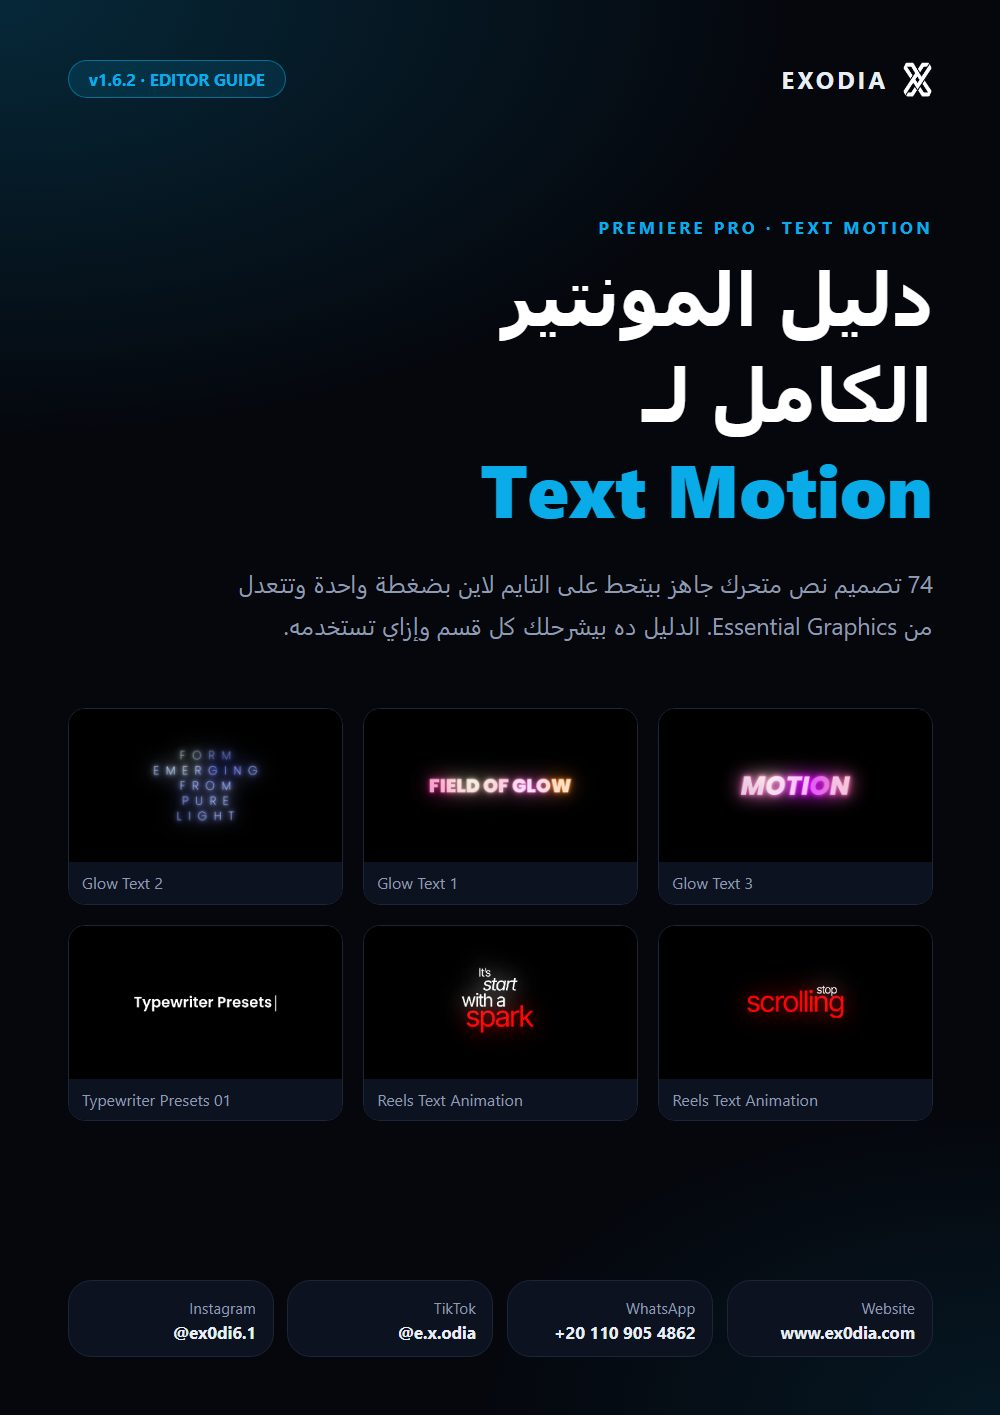
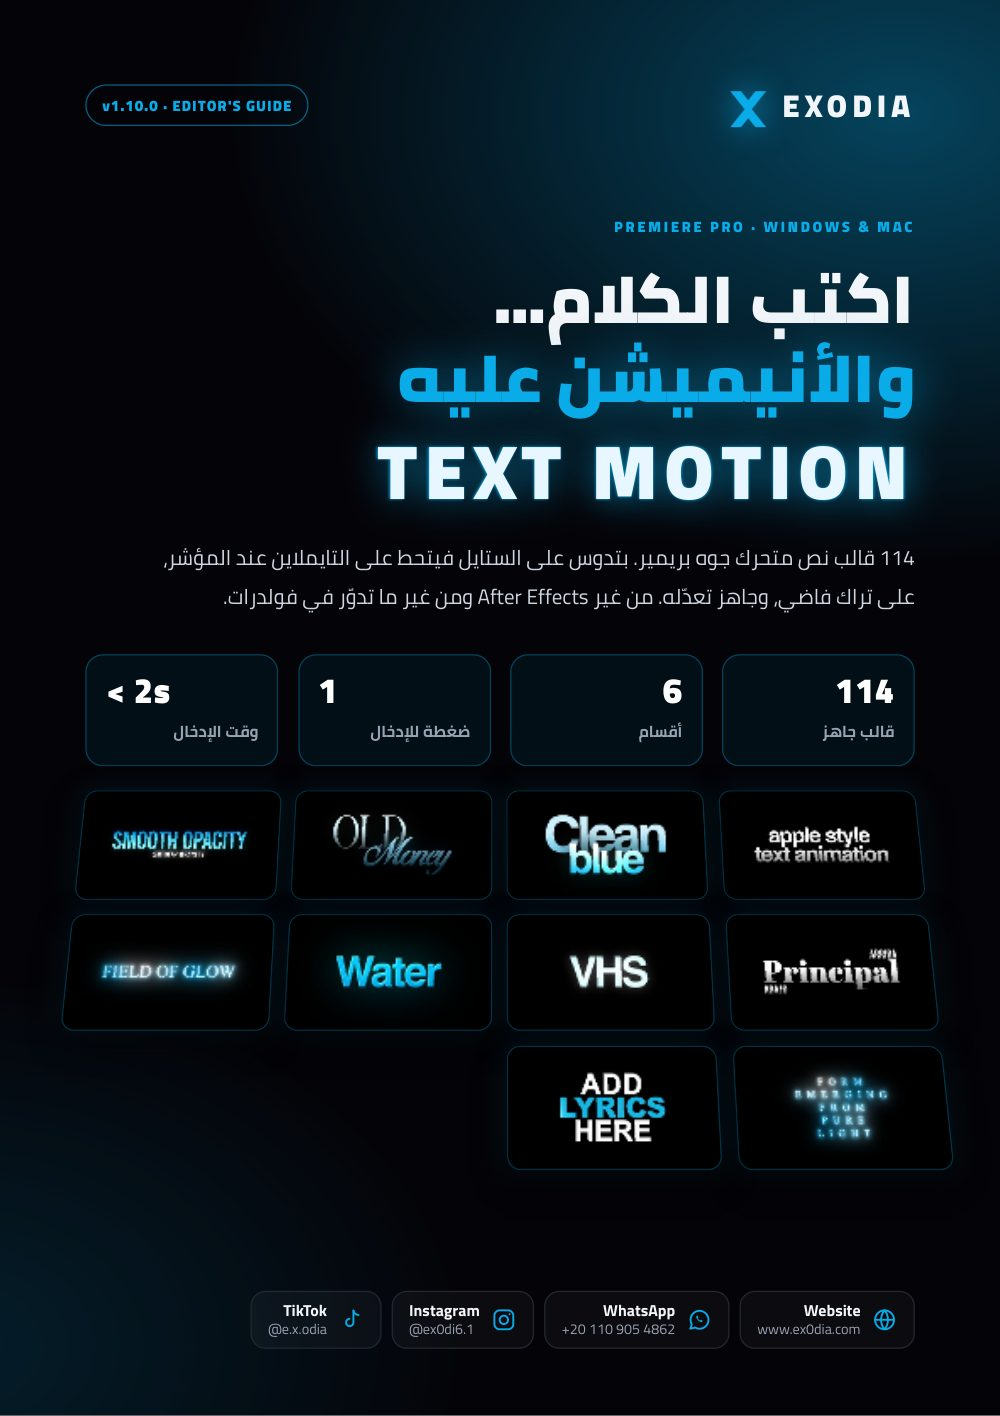
Text Motion guide: new editor-only 13-page version (no install/activation/fonts/dev content)

diff --git a/index.html b/index.html
@@ -239,7 +239,7 @@
     <link rel="preconnect" href="https://fonts.googleapis.com">
     <link rel="preconnect" href="https://fonts.gstatic.com" crossorigin>
     <link href="https://fonts.googleapis.com/css2?family=Cairo:wght@300;400;500;600;700;800;900&family=Space+Grotesk:wght@500;700&display=swap" rel="stylesheet">
-    <link rel="stylesheet" href="assets/styles.css?v=20261023d" />
+    <link rel="stylesheet" href="assets/styles.css?v=20261028a" />
   </head>
   <body>
     <a href="#hero" class="visually-hidden">تخطى إلى المحتوى الرئيسي</a>
@@ -815,7 +815,7 @@
       </div>
     </div>
 
-    <script src="assets/main.js?v=20261023d"></script>
+    <script src="assets/main.js?v=20261028a"></script>
 
     <!-- Exodia Sheet Integration (receipt compress + upload, then post the order) -->
     <script>

diff --git a/assets/main.js b/assets/main.js
@@ -616,7 +616,7 @@
     xvision: { title: "دليل المونتير: X Vision", count: 12, dir: "assets/guides/xvision/" },
     xlab: { title: "دليل المونتير: X LAB", count: 12, dir: "assets/guides/xlab/" },
     autocut: { title: "دليل المونتير: Talkcut", count: 8, dir: "assets/guides/autocut/" },
-    textpresets: { title: "دليل المونتير: Text Motion", count: 6, dir: "assets/guides/textpresets/" }
+    textpresets: { title: "دليل المونتير: Text Motion", count: 13, dir: "assets/guides/textpresets/" }
   };
   var guideModal = document.getElementById("guideModal");
   var guidePages = document.getElementById("guidePages");
